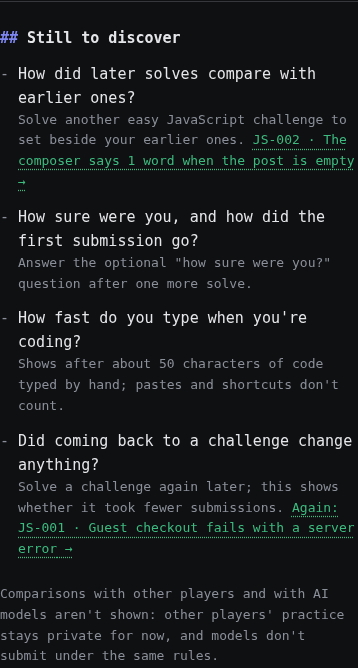
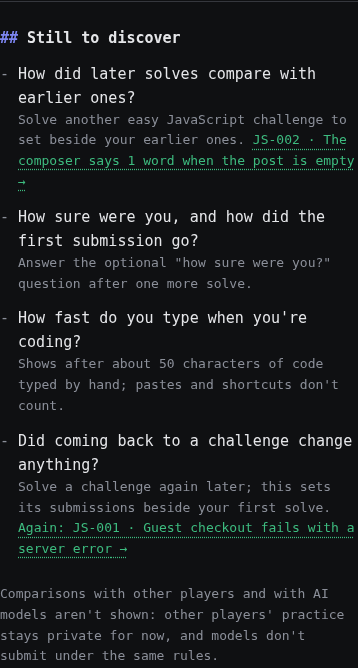
Show Stats repeats either way; capture the whole report (ENG-374)
The review asked for balanced repeats. Coming back to a challenge used to
show only when the later solve needed fewer submissions. It now shows fewer,
the same or more alike, scoped to those solves, with a note that familiarity
plays a part.

Difficulty no longer says "35 s each, typically" of a single solve; the
bars carry the per-level counts. The browser check now covers a repeat in
the rich history, and takes whole-report screenshots, since the page scrolls
inside its own container.

Changed region(s): [[0.0615, 0.7186, 1.0, 0.8383]]

diff --git a/apps/web/lib/report.ts b/apps/web/lib/report.ts
@@ -455,14 +455,13 @@ function difficulty(solved: ReportAttempt[], catalog: readonly ChallengeSummary[
     return { label: g.d, value: m, display: `${duration(m)} · ${plural(g.times.length, "solve")}` };
   });
   const total = groups.reduce((t, g) => t + g.times.length, 0);
-  const each = (g: (typeof groups)[number]) => `${g.times.length > 1 ? "about " : ""}${duration(median(g.times)!)}`;
   return {
     id: "difficulty",
     question: QUESTIONS.difficulty,
     answer:
       total === 1
         ? `Your ${groups[0].d} solve took ${duration(groups[0].times[0])} of active editing.`
-        : `${across(total)}, active editing to the solve: ${groups.map((g) => `${g.d} ${each(g)}`).join(", ")}${groups.some((g) => g.times.length > 1) ? " each, typically" : ""}.`,
+        : `${across(total)}, ${groups.some((g) => g.times.length > 1) ? "typical " : ""}active editing to the solve: ${groups.map((g) => `${g.d} ${duration(median(g.times)!)}`).join(", ")}.`,
     visual: { kind: "bars", bars },
     detail: null,
     note: null,
@@ -574,33 +573,40 @@ function typing(attempts: readonly ReportAttempt[]): Question | null {
   };
 }
 
-/** A later solve of the same challenge, version and conditions, with fewer submissions. */
+/**
+ * Solving the same challenge again (same version and conditions): submissions to the first solve
+ * and to the latest, whichever way it went. Fewer, the same and more are all shown; familiarity
+ * with that challenge helps, so it is never a claim about skill. The most recently repeated one.
+ */
 function repeat(solved: ReportAttempt[]): Question | null {
   const groups = new Map<string, ReportAttempt[]>();
   for (const a of solved.filter(clean)) {
     const key = JSON.stringify([a.challenge, a.revision, [...a.conditions].sort()]);
     groups.set(key, [...(groups.get(key) ?? []), a]);
   }
-  for (const group of groups.values()) {
-    // Submissions up to each solve; any checks after a solve aren't "needed".
-    const s = chronological(group.filter((a) => toSolve(a)));
-    if (s.length < 2) continue;
-    const before = toSolve(s[0])!.submissions,
-      after = toSolve(s[s.length - 1])!.submissions,
-      last = s[s.length - 1];
-    if (after >= before) continue;
-    return {
-      id: "repeat",
-      question: QUESTIONS.repeat,
-      answer: `Back on ${last.challenge}, you needed ${plural(after, "submission")} instead of ${before}.`,
-      visual: { kind: "turn", from: plural(before, "submission"), to: plural(after, "submission") },
-      detail: null,
-      note: "Same challenge, so familiarity helps.",
-      fyi: null,
-      takeaway: null,
-    };
-  }
-  return null;
+  // Submissions up to each solve; any checks after a solve aren't "needed".
+  const s = [...groups.values()]
+    .map((group) => chronological(group.filter((a) => toSolve(a))))
+    .filter((g) => g.length >= 2)
+    .sort((x, y) => when(y.at(-1)!).localeCompare(when(x.at(-1)!)))[0];
+  if (!s) return null;
+  const before = toSolve(s[0])!.submissions,
+    after = toSolve(s.at(-1)!)!.submissions,
+    key = s[0].challenge;
+  const scope = s.length === 2 ? `Back on ${key}` : `Across your ${count(s.length)} solves of ${key}`;
+  return {
+    id: "repeat",
+    question: QUESTIONS.repeat,
+    answer:
+      after === before
+        ? `${scope}, the latest took ${plural(after, "submission")}, the same as the first.`
+        : `${scope}, the latest took ${plural(after, "submission")}; the first took ${before}.`,
+    visual: { kind: "turn", from: `first ${plural(before, "submission")}`, to: `latest ${plural(after, "submission")}` },
+    detail: null,
+    note: "Same challenge, so familiarity with it plays a part.",
+    fyi: null,
+    takeaway: null,
+  };
 }
 
 /**
@@ -688,7 +694,7 @@ function toDiscover(input: ReportInput, solved: ReportAttempt[], answered: Set<s
   const first = ordered[0] && byKey.get(ordered[0].challenge);
   add(
     "repeat",
-    first ? "Solve a challenge again later; this shows whether it took fewer submissions." : "Solve a challenge, then solve it again later.",
+    first ? "Solve a challenge again later; this sets its submissions beside your first solve." : "Solve a challenge, then solve it again later.",
     first?.runnable ? { label: `Again: ${first.key} · ${first.title}`, href: `/challenges/${first.key}` } : null,
   );
   return out;

diff --git a/tools/browser/stats-portrait-check.ts b/tools/browser/stats-portrait-check.ts
@@ -26,9 +26,9 @@ const DAY = 86_400_000;
  * The fixture trace, slowed by `pace` (gaps stay under the 30 s active gap up to 7×), started
  * `day` days in, with its after-solve confidence answer replaced.
  */
-function attempt(key: string, day: number, pace: number, confidence: string): StoredRecord[] {
+function attempt(key: string, day: number, pace: number, confidence: string, again = ""): StoredRecord[] {
   const base = Date.parse("2026-10-20T09:00:00Z") + day * DAY;
-  return trace(`qa-${key}`, `qa-${key}-source`, key, revision(key)).map((r) => {
+  return trace(`qa-${key}${again}`, `qa-${key}${again}-source`, key, revision(key)).map((r) => {
     const o = JSON.parse(r.payload);
     o.elapsedMs *= pace;
     o.occurredAt = new Date(base + o.elapsedMs).toISOString();
@@ -48,6 +48,8 @@ const HISTORIES: Record<string, StoredRecord[]> = {
     ...attempt("JS-004", 5, 2, "fairly"),
     ...attempt("JS-005", 6, 5, "guessing"),
     ...attempt("PY-001", 8, 4, "unsure"),
+    // Back on JS-001 later: a repeat, never part of the earlier/later comparison.
+    ...attempt("JS-001", 9, 3, "sure", "-again"),
   ],
 };
 
@@ -157,6 +159,13 @@ const FORBIDDEN = /sha256|revision|harness|receipt|percentile|cohort|evidence|re
 for (const device of DEVICES) {
   console.log(`${engine} ${device.name}`);
   const shot = (page: Page, name: string) => page.screenshot({ path: `${output}/${engine}-${device.name}-${name}.png`, fullPage: true });
+  // The page scrolls inside its own container, so the viewport grows to the whole report for one shot.
+  const whole = async (page: Page, name: string) => {
+    const height = await page.evaluate(() => document.querySelector(".stats-content")!.scrollHeight + 160);
+    await page.setViewportSize({ width: device.width, height: Math.max(device.height, height) });
+    await page.screenshot({ path: `${output}/${engine}-${device.name}-${name}-full.png` });
+    await page.setViewportSize({ width: device.width, height: device.height });
+  };
 
   // Empty: one line and a start, no cards.
   {
@@ -194,6 +203,7 @@ for (const device of DEVICES) {
     }), "the inventory comes after every answer");
     await noOverflow(page, "one solve");
     await shot(page, "2-one");
+    await whole(page, "2-one");
     await page.locator(".report-discover").screenshot({ path: `${output}/${engine}-${device.name}-2-one-discover.png` });
     step(`${device.name}: one solve describes that solve; next stays in JavaScript`);
     await context.close();
@@ -213,6 +223,7 @@ for (const device of DEVICES) {
     assert.ok(await page.locator(".report-takeaways li").count() <= 3);
     await noOverflow(page, "two solves");
     await shot(page, "3-two");
+    await whole(page, "3-two");
     step(`${device.name}: two solves are scoped, never a trait; next is JS-003, not C-001`);
     await context.close();
   }
@@ -238,12 +249,15 @@ for (const device of DEVICES) {
     assert.match(body, /How sure were you, and how did the first submission go\?/);
     assert.match(body, /the first submission passed \d of \d times you said you were sure, and \d of \d times you said unsure\./);
     assert.match(body, /Across your six solved challenges: JavaScript 5, Python 1\./);
+    assert.match(body, /Back on JS-001, the latest took 2 submissions, the same as the first\./);
+    assert.equal(await page.locator(".report-discover li", { hasText: "Did coming back to a challenge change anything?" }).count(), 0, "answered, so not listed");
     assert.doesNotMatch(body, /Mostly|faster|improv|You're getting/);
     assert.doesNotMatch(body, FORBIDDEN);
     assert.equal(await page.locator(".report-question .report-fyi").count(), 0, "no comparison in any answer");
     assert.match(body, /Comparisons with other players and with AI models aren't shown/, "only the one line saying why");
     await noOverflow(page, "rich");
     await shot(page, "4-rich");
+    await whole(page, "4-rich");
     await page.locator(".report-discover").screenshot({ path: `${output}/${engine}-${device.name}-4-rich-discover.png` });
     if (!device.touch) {
       // Keyboard: the first Tab stops in the page reach the first takeaway; Enter moves to its answer.

diff --git a/apps/web/lib/report.test.ts b/apps/web/lib/report.test.ts
@@ -101,12 +101,18 @@ function withSubmissions(a: AttemptSummary, verdicts: ("pass" | "fail")[], start
   return { ...a, started, timeline, completed: solved >= 0, values: { ...a.values, submissions: verdicts.length }, source: "device" };
 }
 
-test("a later solve with fewer submissions to solve answers the repeat question; otherwise it's left out", () => {
+test("coming back to a challenge shows fewer, the same or more submissions alike, in the same conditions only", () => {
   const first = withSubmissions(summary("r1", "JS-001"), ["fail", "pass"], "2026-10-27T10:00:00.000Z"),
-    later = withSubmissions(summary("r2", "JS-001"), ["pass"], "2026-10-28T10:00:00.000Z");
-  assert.equal(q(buildReport(input({ attempts: [first, later] })), "repeat")!.answer, "Back on JS-001, you needed 1 submission instead of 2.");
-  const other = { ...later, conditions: ["Runtime: {}"] };
-  assert.equal(q(buildReport(input({ attempts: [first, other] })), "repeat"), undefined);
+    later = withSubmissions(summary("r2", "JS-001"), ["pass"], "2026-10-28T10:00:00.000Z"),
+    same = withSubmissions(summary("r3", "JS-001"), ["fail", "pass"], "2026-10-28T10:00:00.000Z"),
+    more = withSubmissions(summary("r4", "JS-001"), ["fail", "fail", "pass"], "2026-10-28T10:00:00.000Z");
+  const answer = (...a: ReportAttempt[]) => q(buildReport(input({ attempts: a })), "repeat")?.answer;
+  assert.equal(answer(first, later), "Back on JS-001, the latest took 1 submission; the first took 2.");
+  assert.equal(answer(first, same), "Back on JS-001, the latest took 2 submissions, the same as the first.");
+  assert.equal(answer(first, more), "Back on JS-001, the latest took 3 submissions; the first took 2.", "more is shown as plainly as fewer");
+  assert.equal(answer(first, later, { ...more, started: "2026-10-29T10:00:00.000Z" }), "Across your three solves of JS-001, the latest took 3 submissions; the first took 2.");
+  assert.equal(q(buildReport(input({ attempts: [first, later] })), "repeat")!.note, "Same challenge, so familiarity with it plays a part.");
+  assert.equal(answer(first, { ...later, conditions: ["Runtime: {}"] }), undefined, "different conditions aren't a repeat");
 });
 
 test("checks after a solve never count as needed: no false improvement, no extra iteration", () => {
@@ -115,7 +121,7 @@ test("checks after a solve never count as needed: no false improvement, no extra
     later = withSubmissions(summary("q2", "JS-001"), ["fail", "pass"], "2026-10-28T10:00:00.000Z");
   assert.equal(first.values.submissions, 6);
   const r = buildReport(input({ attempts: [first, later] }));
-  assert.equal(q(r, "repeat"), undefined, "1 to solve, then 2: not an improvement");
+  assert.equal(q(r, "repeat")!.answer, "Back on JS-001, the latest took 2 submissions; the first took 1.", "1 to solve, then 2: optional ones after the solve don't count");
   // Checks to solve are 1 and 2, not 6 and 2.
   assert.deepEqual(q(r, "iterate")!.visual, { kind: "bars", bars: [{ label: "1 submission", value: 1, display: "1 solve" }, { label: "2 submissions", value: 1, display: "1 solve" }] });
 });
@@ -479,6 +485,8 @@ test("a rich history leads with at most three takeaways, each scoped and from an
   }
   assert.equal(r.takeaways[1].text, "Across your five answered solves, the first submission passed 2 of 3 times you said you were sure, and 0 of 2 times you said unsure.");
   assert.deepEqual(r.questions.map((x) => x.id), ["start", "iterate", "recovery", "confidence", "difficulty", "progress", "languages"]);
+  assert.equal(q(r, "difficulty")!.answer, "Across your five solves, typical active editing to the solve: easy 10 min, medium 20 min.");
+  assert.deepEqual(q(r, "difficulty")!.visual, { kind: "bars", bars: [{ label: "easy", value: 9.5 * MIN, display: "10 min · 4 solves" }, { label: "medium", value: 20 * MIN, display: "20 min · 1 solve" }] });
   assert.doesNotMatch(visible(r), /sha256|revision|harness|receipt|percentile|evidence|reading|thinking/i);
   assert.doesNotMatch(said(r), /faster|improv|mostly|you iterate|you are|always/i, "observations, never traits");
 });

diff --git a/docs/developer-profile.md b/docs/developer-profile.md
@@ -21,7 +21,7 @@
 | Which languages do you actually code in? | Challenges solved and in progress per catalog language, current revision only; "Across your five solved challenges: JavaScript 4, Python 1" | Any clean trace | Catalog coverage or skill. No durations: a second of active time beside a solve count read as an error |
 | Your usual languages or something new? | Challenges worked on, grouped by the languages the player listed (ENG-360) | The player answered the languages question | Anything about other players |
 | How fast do you type when you're coding? | `typedKeys` and `typingTime` (v3): intervals between consecutive code-character keydowns (one character, no Ctrl/Alt/Meta) within 2 s in one source; arrows, Backspace and other keys break the run. Unavailable (null) when Vim keybindings were on, since normal-mode letters are commands. Pooled across attempts: WPM = typedKeys / typingTime × 60000 / 5 | At least 50 such keystrokes (`MIN_TYPED_KEYS`) | Output speed: pastes, navigation, deletions and pauses aren't counted |
-| Did coming back to a challenge change anything? | A later clean solve of the same challenge, version and conditions needing fewer submissions up to the solve (`toSolve`) | Such a pair exists | Improvement from optional submissions after a solve; general improvement (familiarity with that challenge helps) |
+| Did coming back to a challenge change anything? | Submissions up to the solve (`toSolve`) on the first and the latest clean solve of the same challenge, version and conditions; fewer, the same and more are all shown | Two such solves | Improvement from optional submissions after a solve; a skill change (familiarity with that challenge plays a part, and the note says so) |
 
 Not shown, on purpose: edit sizes as a "rewrite style" (keystroke-level edit sizes don't establish one), focus and visibility changes, editor-help counts and practice-day streaks (time-zone dependent).
 

diff --git a/docs/eng-374/README.md b/docs/eng-374/README.md
@@ -16,3 +16,4 @@ Uploaded history was a synthetic empty page, a 6 s slow page or a 503, answered 
 | `desktop-1280-4-rich.png`, `phone-320-4-rich.png`, `phone-landscape-4-rich.png` | Rich history: three takeaways, then the answers; uploads still arriving |
 | `desktop-1280-5-history-down.png` | Uploads failing: the device report stays, with a retrying line |
 | `phone-390-2-one-discover.png`, `desktop-1280-4-rich-discover.png` | "Still to discover" after one solve and in a rich history (element screenshots; the page scrolls inside its own container, so the page screenshots show the first screen only) |
+| `phone-390-2-one-full.png`, `phone-390-3-two-full.png`, `phone-390-4-rich-full.png`, `phone-320-4-rich-full.png`, `desktop-1280-4-rich-full.png` | The whole report, top to bottom (one, two and a rich history with a repeat), taken with the viewport grown to the report's height |
